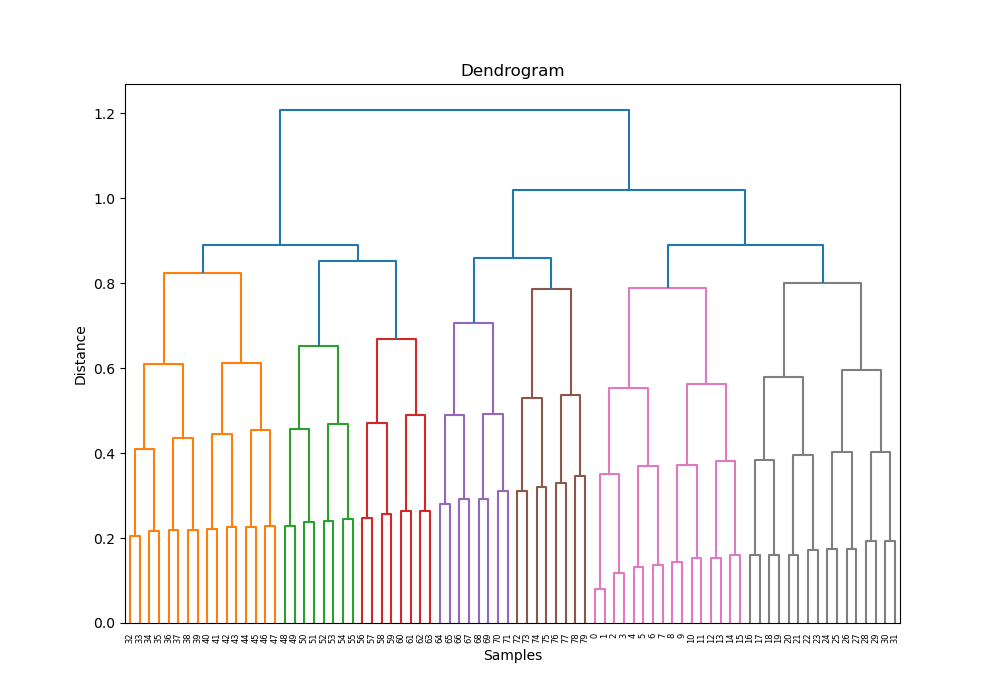
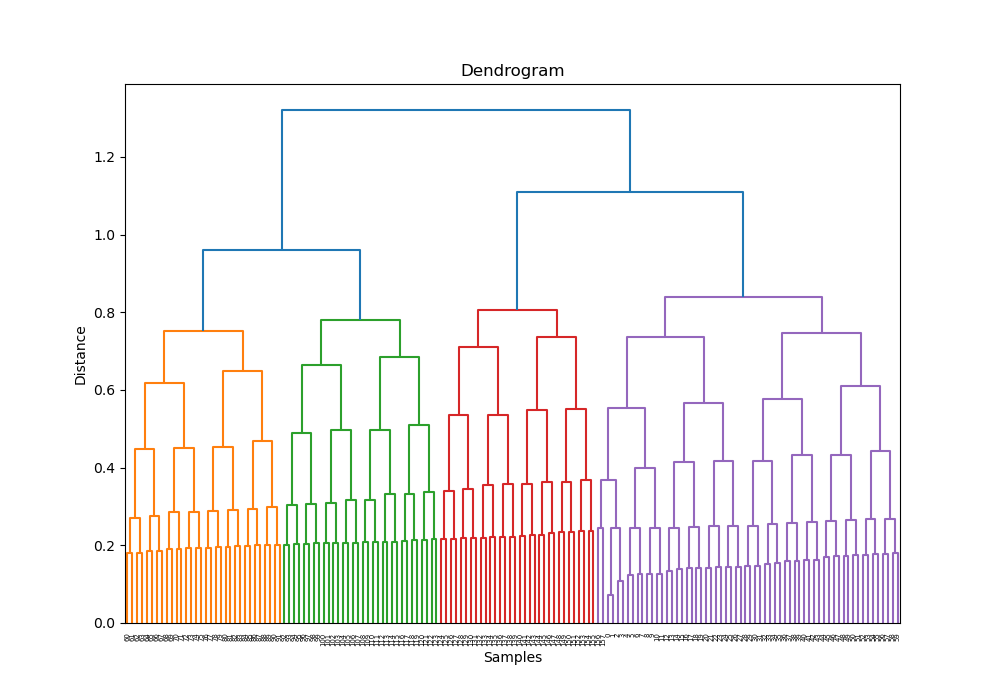
ATTENZIONE!!! HC È QUELLO CHE FUNZIONA CON CUPY, HC_OLD2 È QUELLO COL DIZIONARIO CHE FUNZIONA BENE MA È PIÙ LENTO.

diff --git a/Machine Learning/Hierarchical Clustering/data.py b/Machine Learning/Hierarchical Clustering/data.py
@@ -4,6 +4,7 @@ import pandas as pd
 import numpy as np
 from pandas.core.frame import DataFrame
 from sklearn.model_selection import train_test_split
+from ucimlrepo import fetch_ucirepo
 
 
 class DataHandler:
@@ -17,8 +18,7 @@ class DataHandler:
         # Ad esempio: normalizzazione tra -1 e 1 per le caratteristiche MFCC
         self.data.iloc[:, :-1] = (self.data.iloc[:, :-1] - self.data.iloc[:, :-1].min()) / (
                     self.data.iloc[:, :-1].max() - self.data.iloc[:, :-1].min())
-        # Esegui lo split dei dati
-        self.data, X_test = train_test_split(self.data, test_size=0.8, random_state=42)
+
 
     def get_features(self):
         # Ritorna solo le colonne delle feature per il clustering
@@ -38,3 +38,17 @@ if __name__ == '__main__':
     # Inizializza il gestore dati e carica il dataset
     data_handler = DataHandler(f'{dataset_dir}/Frogs_MFCCs_reduced.csv')
     data_handler.data = data_handler.data.drop(columns=['Genus','Species','RecordID'])
+
+
+    # fetch dataset
+    hepatitis = fetch_ucirepo(id=46)
+
+    # data (as pandas dataframes)
+    X = hepatitis.data.features
+    y = hepatitis.data.targets
+
+    # Concatenare X e y in un unico DataFrame
+    data = pd.concat([X, y], axis=1)
+
+    # Salvare il DataFrame concatenato in un file CSV
+    data.to_csv(f'{dataset_dir}/hepatitis.csv', index=False)

diff --git a/Machine Learning/Hierarchical Clustering/hepatitis.py b/Machine Learning/Hierarchical Clustering/hepatitis.py
@@ -1,0 +1,18 @@
+import pandas as pd
+from ucimlrepo import fetch_ucirepo
+import os
+
+import numpy as np
+from pandas.core.interchange.dataframe_protocol import DataFrame
+
+from data import DataHandler
+from hierarchical_clustering import HierarchicalClustering
+from evaluation import calculate_and_save_silhouette, purity_score
+from plot import save_dendrogram, save_silhouette_plot
+if __name__=='__main__':
+    current_dir = os.path.dirname(os.path.abspath(__file__))
+    dataset_dir = os.path.join(current_dir, 'Assets', 'Dataset')
+    output_dir = os.path.join(current_dir, 'Assets', 'Results')
+    os.makedirs(output_dir, exist_ok=True)
+    dataset_name = 'hepatitis'
+

diff --git a/Machine Learning/Hierarchical Clustering/frogs.py b/Machine Learning/Hierarchical Clustering/frogs.py
@@ -4,7 +4,7 @@ import numpy as np
 from pandas.core.interchange.dataframe_protocol import DataFrame
 
 from data import DataHandler
-from hierarchical_clustering import HierarchicalClustering
+from hierarchical_clustering_old_2 import HierarchicalClustering
 from evaluation import calculate_and_save_silhouette, purity_score
 from plot import save_dendrogram, save_silhouette_plot
 import gc
